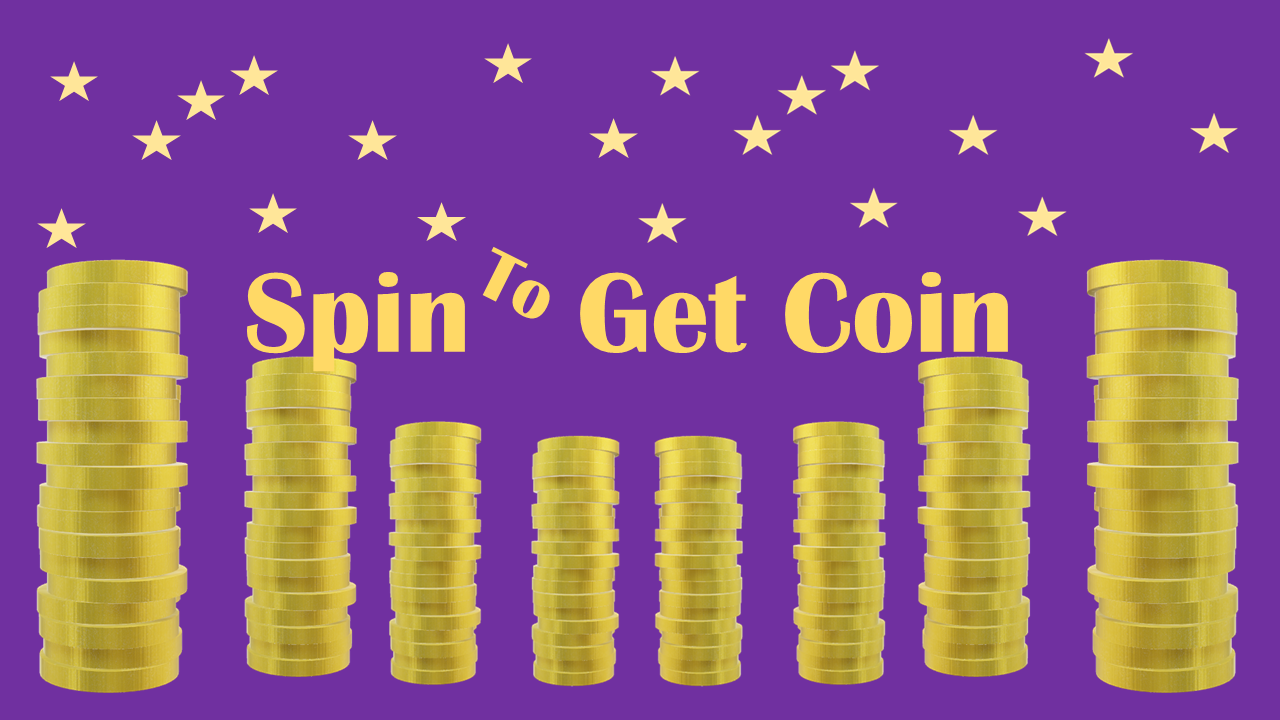
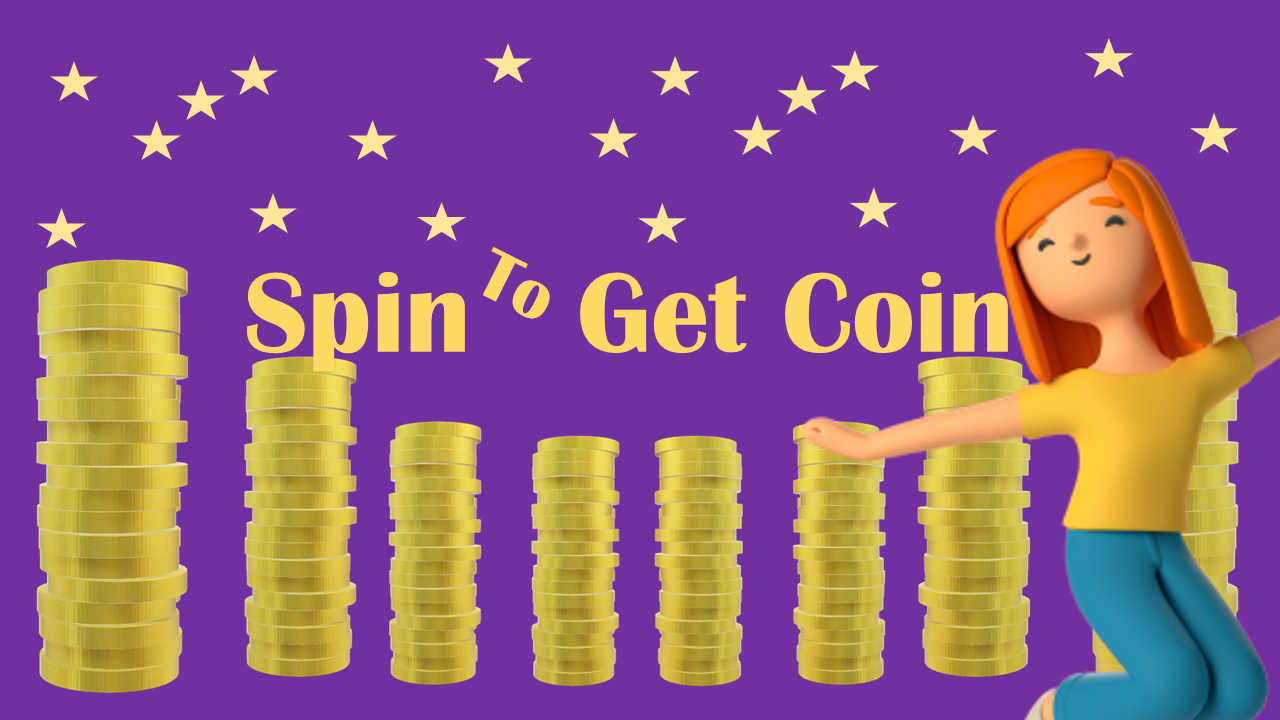
add money row to db

Changed region(s): [[0.625, 0.1833, 1.0, 1.0]]

diff --git a/public/game.js b/public/game.js
@@ -5,21 +5,28 @@ let Data = {};
 //Game Size
 Game.width = 800;
 Game.height = 400;
-
+let board;
+let loaded=false;
 //Title_Scene
 class Title_Scene extends Phaser.Scene {
-
 	constructor() {
 		super({
 			key: 'Title_Scene'
 		});
 	}
-
 	preload() {
-        this.load.image("background","VideoSlot.png")
-
+		/*Image by <a href="https://www.freepik.com/free-psd/3d-girl-character-jumping-air_17888282.htm#page=2&query=3d%20people&position=5&from_view=keyword">Freepik</a>*/
+        this.load.image("background","VideoSlot.png");
+		fetch('/api/getBoard').then(t=>{
+			t.json().then(j=>{
+				board=j;
+				console.log("loaded data successfully");
+				loaded=true;
+			});
+		});
+		
 	}
-
+//サーバから取得して結果もサーバでシュミレーションしとくだけでチート対策にはなる。
 	create() {
         let staticGroup = this.physics.add.staticGroup();
         let background = staticGroup.create(Game.width/2, Game.height/2, 'background');
@@ -27,10 +34,9 @@ class Title_Scene extends Phaser.Scene {
         background.scaleY = background.scaleY /1.6;
 		//Game Title
 		//let title = this.add.text(Game.width / 2, Game.height / 3 * 1, 'GAME TITLE', {font: '40px Arial'}).setOrigin(0.5);
-
-		//Start Button
-		let start = this.add.text(Game.width / 2, (Game.height *0.54), 'START', {font: '40px Arial'}).setInteractive().setOrigin(0.5).setTint(0xff00ff, 0xffff00, 0x0000ff, 0xff0000);
-
+		if(loaded){
+			this.add.text(Game.width / 2, (Game.height *0.54), board[0][0]+"");
+		}
 		start.on('pointerdown', function(pointer) {
 			this.scene.start('Game_Scene');
 		}, this);

diff --git a/database/migrations/2022_12_05_051735_add_money_to_users.php b/database/migrations/2022_12_05_051735_add_money_to_users.php
@@ -1,0 +1,33 @@
+<?php
+
+use Illuminate\Database\Migrations\Migration;
+use Illuminate\Database\Schema\Blueprint;
+use Illuminate\Support\Facades\Schema;
+
+return new class extends Migration
+{
+    /**
+     * Run the migrations.
+     *
+     * @return void
+     */
+    public function up()
+    {
+        Schema::table('users', function (Blueprint $table) {
+            $table->bigInteger('money')->default('100000');  // money
+      $table->softDeletes();  // ソフトデリート
+        });
+    }
+
+    /**
+     * Reverse the migrations.
+     *
+     * @return void
+     */
+    public function down()
+    {
+        Schema::table('users', function (Blueprint $table) {
+            //
+        });
+    }
+};

diff --git a/app/Http/Controllers/ApiControllerv2.php b/app/Http/Controllers/ApiControllerv2.php
@@ -1,0 +1,26 @@
+<?php
+namespace App\Http\Controllers;
+use Illuminate\Support\Facades\Auth;
+use Illuminate\Http\Request;
+use App\Models\User;
+class ApiControllerv2 extends Controller
+{
+    public function getBoard(Request $request){
+        $user = $request->user();
+        $userDetail=User::find($user->id);
+        $userDetail->money=$userDetail->money-100;
+        $userDetail->save();
+        $board=array();
+        for($i=3;$i>=0;$i--){
+            for($a=0;$a<5;$a++){
+                $board[$i][$a]=rand(0,6);
+            }
+        }
+        return json_encode($board);
+    }
+    public function getAdditional(){
+        //重力があるため下から取得していくべき
+    }
+
+
+}

diff --git a/routes/api.php b/routes/api.php
@@ -2,6 +2,7 @@
 
 use Illuminate\Http\Request;
 use Illuminate\Support\Facades\Route;
+use App\Http\Controllers\ApiControllerv2;
 
 /*
 |--------------------------------------------------------------------------
@@ -16,4 +17,7 @@ use Illuminate\Support\Facades\Route;
 
 Route::middleware('auth:sanctum')->get('/user', function (Request $request) {
     return $request->user();
+});
+Route::middleware('auth')->group(function () {
+    Route::get('/getBoard', [ApiControllerv2::class, 'getBoard']);
 });

diff --git a/tests/Feature/ApiTest.php b/tests/Feature/ApiTest.php
@@ -1,0 +1,21 @@
+<?php
+
+namespace Tests\Feature;
+
+use Illuminate\Foundation\Testing\RefreshDatabase;
+use Illuminate\Foundation\Testing\WithFaker;
+use Tests\TestCase;
+
+class ApiTest extends TestCase
+{
+    /**
+     * A basic feature test example.
+     *
+     * @return void
+     */
+    public function testApi()
+    {
+        // エラー
+        $this->patchJson('/api/getBoard', [])->assertStatus(200);
+    }
+}

diff --git a/resources/views/dashboard.blade.php b/resources/views/dashboard.blade.php
@@ -5,6 +5,7 @@
 <meta name="viewport" content="width=device-width, user-scalable=no, initial-scale=1, maximum-scale=1">
 <title>Enjoy a Game!</title>
 <script src="//cdn.jsdelivr.net/npm/phaser@3.20.1/dist/phaser.min.js"></script>
+<script src="https://cdn.jsdelivr.net/npm/axios/dist/axios.min.js"></script>
 </head>
 <body  style="margin:0;">
 <script type="module" src="game.js"></script>

diff --git a/app/Http/Kernel.php b/app/Http/Kernel.php
@@ -39,7 +39,7 @@ class Kernel extends HttpKernel
         ],
 
         'api' => [
-            // \Laravel\Sanctum\Http\Middleware\EnsureFrontendRequestsAreStateful::class,
+            \Laravel\Sanctum\Http\Middleware\EnsureFrontendRequestsAreStateful::class,
             'throttle:api',
             \Illuminate\Routing\Middleware\SubstituteBindings::class,
         ],

diff --git a/app/Models/User.php b/app/Models/User.php
@@ -21,6 +21,7 @@ class User extends Authenticatable
         'name',
         'email',
         'password',
+        'money',
     ];
 
     /**
